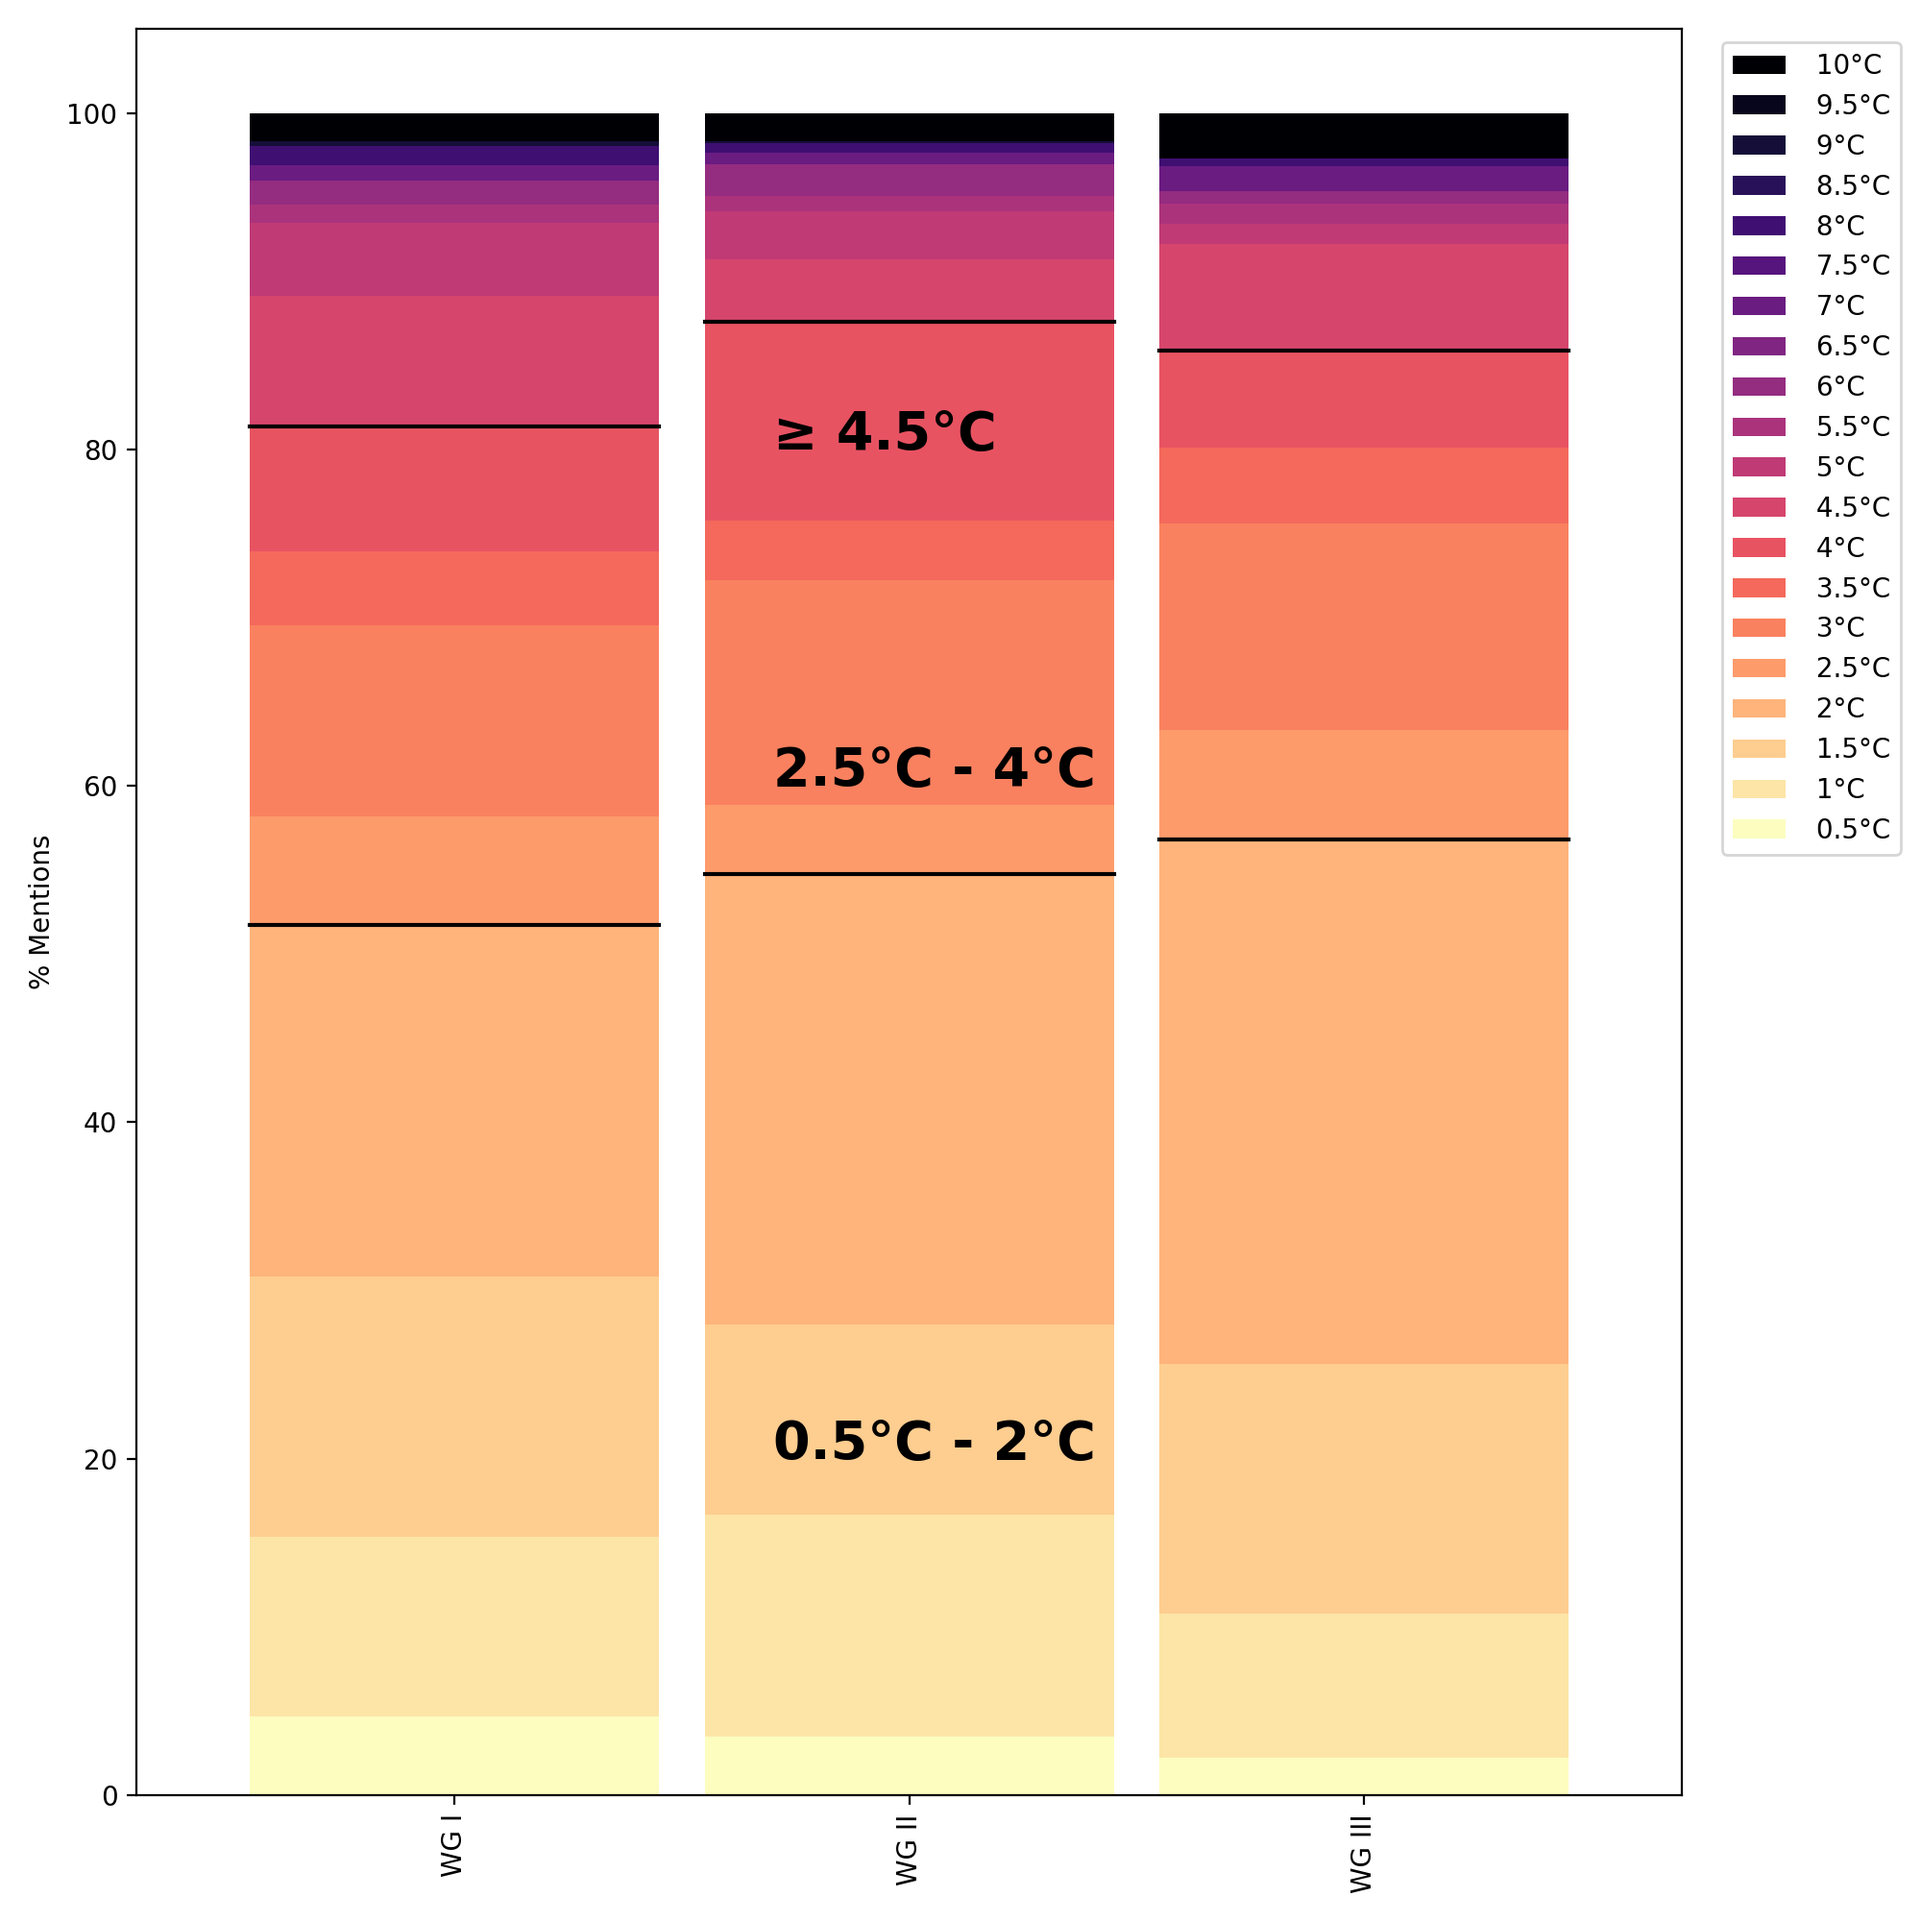
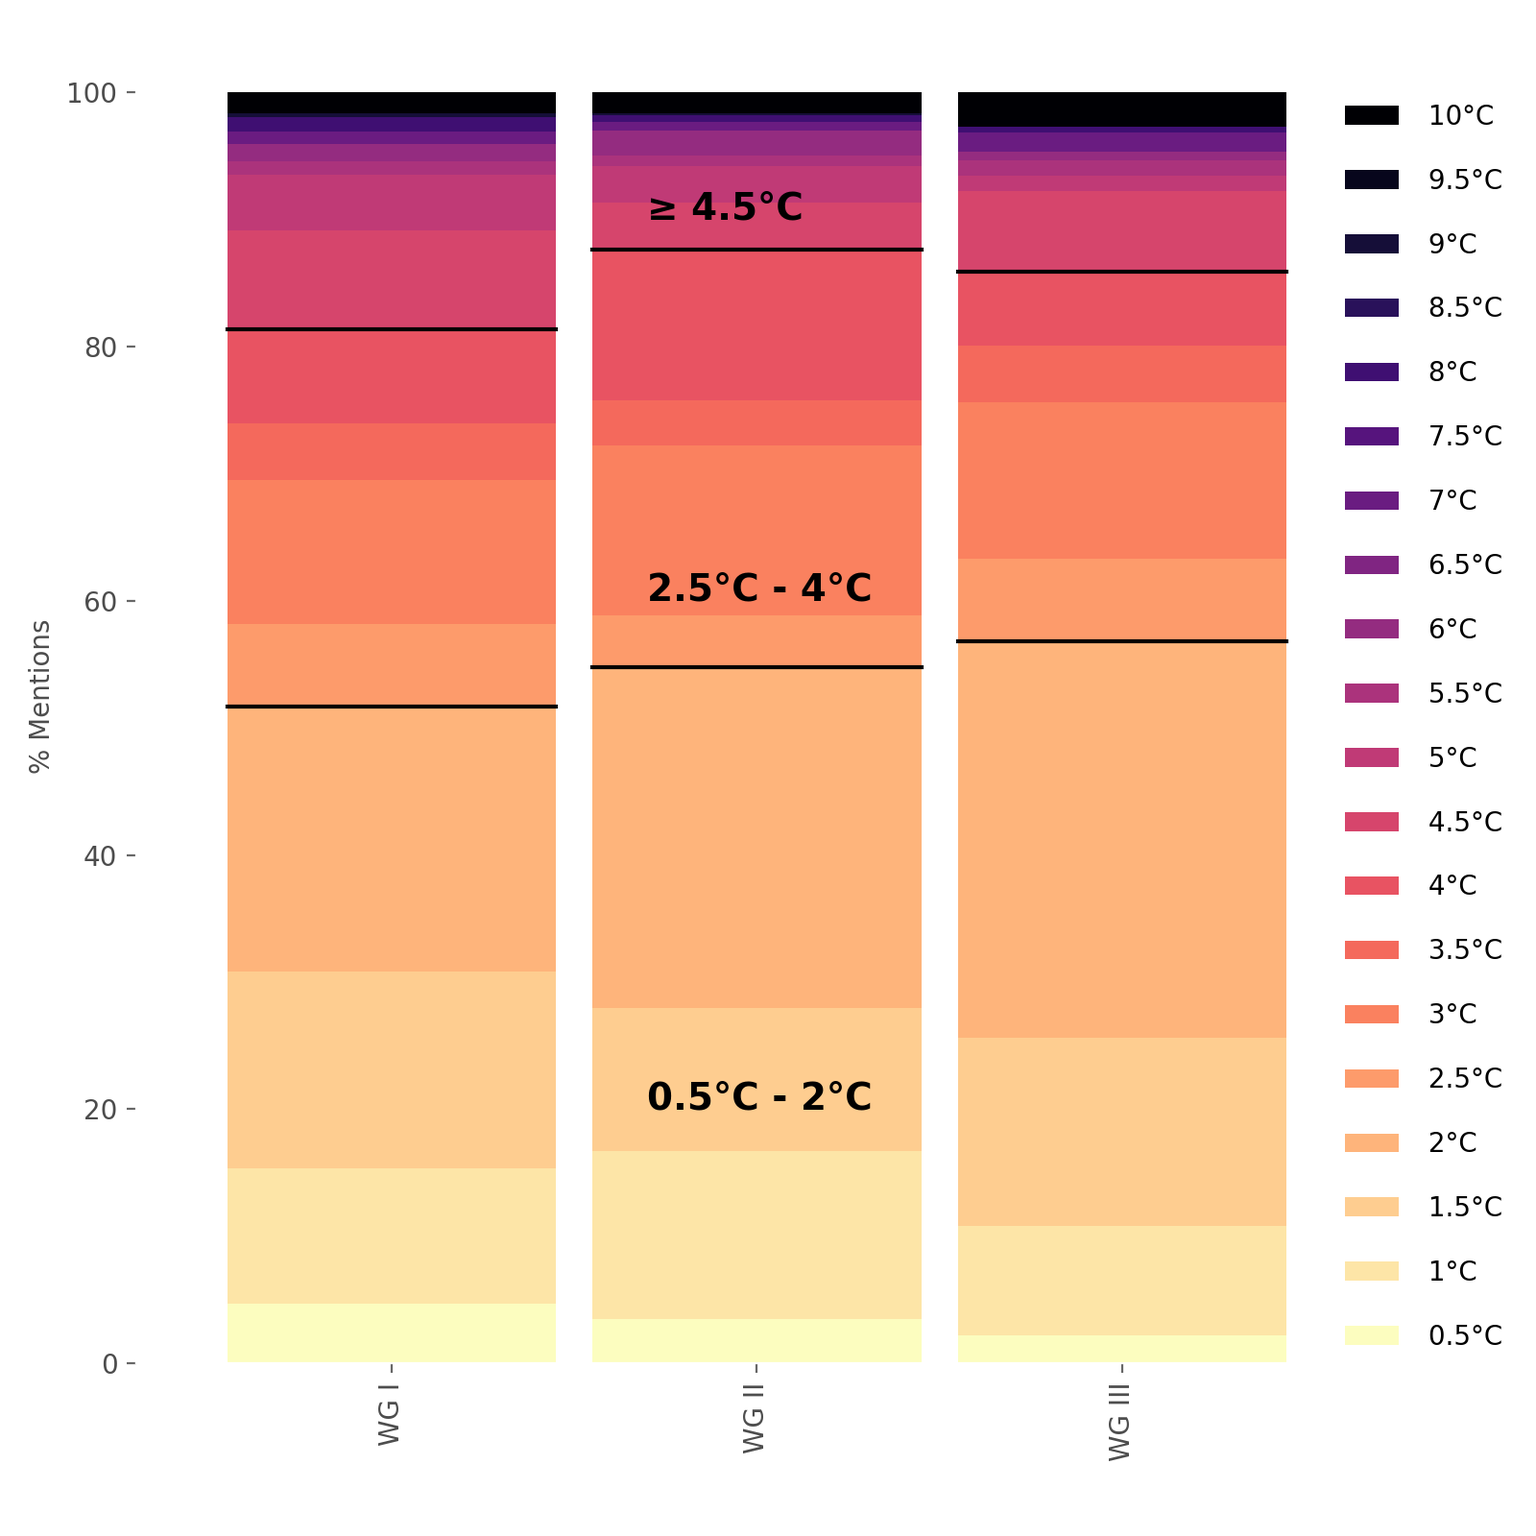
Finished cleaning up the repository for publication

diff --git a/read_prepare_data.py b/read_prepare_data.py
@@ -7,6 +7,8 @@ Created on Fri Sep 17 10:12:26 2021
 import os
 import pandas as pd
 import numpy as np
+import re
+import random
 
 
 def read_ipcc_counts_temp():
@@ -148,8 +150,127 @@ def combine_all_raw_strings():
     with open(os.getcwd() + os.sep + "Raw IPCC Strings" + os.sep + "all_ipcc_strings.csv", 'w', encoding='utf-8') as f:
         # this file is not included in the repository, as it is too large for Github
         f.write(all_reports)
+
+
+def create_temp_dict():
+    """Creates a dictionary for all the single temperatures to count and returns it"""
+    temp_dict = {}
+    for i in np.arange(0.5,10.5, 0.5):
+        # Test if it is a float or not to format it right
+        if i == int(i):
+            # Add an empty space at the beginnign to make sure this is not counting e.g. 1.5°C  as 5°C
+            key = " " + str(int(i)) + "°C"
+        else: 
+            key = " " + str(i )+ "°C"
+        temp_dict[key] = 0
+    return temp_dict
     
 
+def get_all_string(report):
+    with open(os.getcwd() + os.sep + "Raw IPCC Strings" + os.sep + report, 'r', encoding='utf-8') as f:
+        return f.read()
+    
+
+def count_temperatures(report):
+    """counts all temperatures between 0.5°C and 10°C in 0.5°C steps"""
+    temp_dict = create_temp_dict()
+    report_df = pd.read_csv(os.getcwd() + os.sep + "Raw IPCC Strings" + os.sep + report, sep="\t", usecols=[0])
+    report_list = report_df[report_df.columns[0]].tolist()
+    report_str = " ".join([str(item) for item in report_list])
+    # count how often a temperature occures
+    for temp in temp_dict.keys():
+        number_of_occurences = report_str.count(temp)
+        print("Found " + temp +  " " + str(number_of_occurences) + " time(s)")
+        temp_dict[temp] += number_of_occurences
+    # Save the results for the single pdf
+    temp_counts_pdf = pd.DataFrame.from_dict(temp_dict, orient="index")
+    temp_counts_pdf.to_csv("Results" + os.sep + "temperatures" + os.sep + "counts_" + report[:-4] + ".csv", sep=";")
+    
+    
+def count_temp_in_all_reports():
+    """iterates over all reports"""
+    reports = [file for file in os.listdir(os.getcwd() + os.sep + "Raw IPCC Strings") if file[-4:] == ".csv" ]
+    for report in reports:
+        print("Starting with " + report)  
+        count_temperatures(report)    
+
+
+def create_rfc_dict():
+    """Creates a dictionary for all "reasons for concern" to count and returns it"""
+    rfc_dict = {
+        "unique and threatened systems":0,
+        "extreme climate events":0,
+        "distribution of impacts":0,
+        "aggregate impacts":0,
+        "large-scale singular event":0
+        }
+    return rfc_dict
+    
+
+def count_rfc(report):
+    """counts all reasons of concerns mentioned in a given report"""
+    rfc_dict = create_rfc_dict()
+    report_df = pd.read_csv(os.getcwd() + os.sep + "Raw IPCC Strings" + os.sep + report, sep="\t", usecols=[0])
+    report_list = report_df[report_df.columns[0]].tolist()
+    report_str = " ".join([str(item) for item in report_list])
+    # count how often a temperature occures
+    for reason_for_concern in rfc_dict.keys():
+        number_of_occurences = report_str.count(reason_for_concern)
+        print("Found " + reason_for_concern +  " " + str(number_of_occurences) + " time(s)")
+        rfc_dict[reason_for_concern] += number_of_occurences
+    # Save the results for the single pdf
+    rfc_counts_pdf = pd.DataFrame.from_dict(rfc_dict, orient="index")
+    rfc_counts_pdf.to_csv("Results" + os.sep + "reasons_for_concern" + os.sep + "counts_" + report[:-4] + ".csv", sep=";")
+     
+    
+def count_rfc_in_all_reports():
+    """iterates over all reports"""
+    reports = [file for file in os.listdir(os.getcwd() + os.sep + "Raw IPCC Strings") if file[-4:] == ".csv" ]
+    for report in reports:
+        print("Starting with " + report)  
+        count_rfc(report)
+        
+
+def read_ipcc_string():
+    """reads in the string that contains all reports"""
+    with open(os.getcwd() + os.sep + "Raw IPCC Strings" + os.sep + "all_ipcc_strings.csv", 'r', encoding='utf-8') as f:
+        return str(f.readlines())
+    
+    
+def find_all_temp_occurence(ipcc_string):
+    """finds all occurences for all temperatures"""
+    temp_dict = {}
+    for i in [1,1.5,2,3,4,5,6,7,8,9,10]:
+        # Test if it is a float or not to format it right
+        if i == int(i):
+            # Add an empty space at the beginnign to make sure this is not counting e.g. 1.5°C  as 5°C
+            key = " " + str(int(i)) + "°C"
+        else: 
+            key = " " + str(i)+ "°C"
+        temp_dict[key] = [m.start() for m in re.finditer(key, ipcc_string)]
+    return temp_dict
+    
+
+def get_strings_around_temps(temp_dict, ipcc_string, n_temp_sample=10, sample_length=250):
+    """extracts the text around a given index in the string of all ipcc reports"""
+    # number of files created with independent samples
+    amount_files = 6
+    for file in range(amount_files):
+        with open(os.getcwd() + os.sep + "Results" + os.sep + "false_positive_check_files" + os.sep + "false_positive_"+str(file+1)+".csv", 'w', encoding='utf-8') as f:       
+            for temp in temp_dict.keys():
+                random_temp_sample = random.sample(temp_dict[temp],n_temp_sample)
+                for index in random_temp_sample:
+                    f.write(ipcc_string[int(index-(sample_length/2)):int(index+(sample_length/2))]+"\n\n")
+            
 
 if __name__ == "__main__":
+    # Run the data analysis
     combine_all_raw_strings()
+    count_rfc_in_all_reports()
+    count_temp_in_all_reports()
+
+    # Get the random sample
+    ipcc_string = read_ipcc_string()
+    temp_dict = find_all_temp_occurence(ipcc_string)
+    random.seed(1)
+    get_strings_around_temps(temp_dict, ipcc_string)

diff --git a/supplementary_figures.py b/supplementary_figures.py
@@ -8,7 +8,6 @@ import pandas as pd
 import matplotlib.pyplot as plt
 import os
 import read_prepare_data as rp_da
-import count_rfc_ipcc
 import seaborn as sns
 
 
@@ -34,7 +33,7 @@ def plot_all_temp_by_wg(ipcc_counts_temp, meta, cmap):
     ax = wgs_continous_temp.plot(cmap=cmap, kind="bar", width=0.9, stacked=True)
     # Handle the legend
     handles, labels = ax.get_legend_handles_labels()
-    ax.legend(handles[::-1], labels[::-1],loc='upper right', bbox_to_anchor=(1.15, 1))
+    ax.legend(handles[::-1], labels[::-1],loc='upper right', bbox_to_anchor=(1.12, 0.962),labelspacing=1.4, frameon=False)
     # Plot the temp groups
     wgs_group_temp = pd.concat([wgI[temp_groups].mean(), wgII[temp_groups].mean(), wgIII[temp_groups].mean()],axis=1)
     wgs_group_temp.columns = ["WG I", "WG II", "WG III"]
@@ -49,13 +48,14 @@ def plot_all_temp_by_wg(ipcc_counts_temp, meta, cmap):
             ax.plot([i-0.45,i+1-0.55], [WG,WG], color="black")
 
 
-    for temp_group, y_pos in zip(temp_groups, [20,60,80]):
-        ax.text(0.7, y_pos,temp_group, fontsize=20, fontweight="bold")
+    for temp_group, y_pos in zip(temp_groups, [20,60,90]):
+        ax.text(0.7, y_pos,temp_group, fontsize=14, fontweight="bold")
         
     # Make pretty
     ax.set_ylabel("% Mentions")
+    plot_nicer(ax)
     fig = plt.gcf()
-    fig.set_size_inches(10,10)
+    fig.set_size_inches(8,8)
     fig.tight_layout()
     plt.savefig("Figures"+ os.sep + "Supplementary" + os.sep + "WG_all_temps_and_grouped.png", dpi=200)
     plt.close()
@@ -74,7 +74,7 @@ def plot_all_temp_by_report_type(ipcc_counts_temp, meta, cmap):
     # Plot the seperate temps
     ax = counts_meta.groupby("Kind of Report")[temps].mean().plot(cmap=cmap, kind="bar", width=0.9, stacked=True)    
     handles, labels = ax.get_legend_handles_labels()
-    ax.legend(handles[::-1], labels[::-1],loc='upper right', bbox_to_anchor=(1.15, 1))
+    ax.legend(handles[::-1], labels[::-1],loc='upper right', bbox_to_anchor=(1.12, 0.962),labelspacing=1.4, frameon=False)
     # Plot the temp groups
     temp_group_means_by_report = counts_meta.groupby("Kind of Report")[temp_groups].mean()
     # prep df for stacking
@@ -88,13 +88,14 @@ def plot_all_temp_by_report_type(ipcc_counts_temp, meta, cmap):
             # Plot vertical lines
 
 
-    for temp_group, y_pos in zip(temp_groups, [20,60,80]):
-        ax.text(1.6, y_pos,temp_group, fontsize=20, fontweight="bold")
+    for temp_group, y_pos in zip(temp_groups, [20,60,90]):
+        ax.text(1.6, y_pos,temp_group, fontsize=14, fontweight="bold")
         
     # Make pretty
     ax.set_ylabel("% Mentions")
+    plot_nicer(ax)
     fig = plt.gcf()
-    fig.set_size_inches(10,10)
+    fig.set_size_inches(8,8)
     fig.tight_layout()
     plt.savefig("Figures"+ os.sep + "Supplementary" + os.sep + "report_type_all_temps_and_grouped.png", dpi=200)
     plt.close()
@@ -105,20 +106,22 @@ def plot_all_rfc_by_ar(ipcc_counts_rfc, meta, cmap):
     ipcc_counts_rfc = rp_da.scale_counts(ipcc_counts_rfc.copy())
     # prep for plotting
     counts_meta = rp_da.merge_counts_meta(ipcc_counts_rfc, meta)
-    rfcs = list(count_rfc_ipcc.create_rfc_dict().keys())
+    rfcs = list(rp_da.create_rfc_dict().keys())
     # Plot the seperate temps
     ax = counts_meta.groupby("AR")[rfcs].mean().plot(kind="bar", stacked=True, cmap=cmap)    
-
+    handles, labels = ax.get_legend_handles_labels()
+    ax.legend(handles[::-1], labels[::-1], loc=7)
     # Make pretty
     ax.set_ylabel("% Mentions")
+    plot_nicer(ax)
     fig = plt.gcf()
-    fig.set_size_inches(10,10)
+    fig.set_size_inches(8,8)
     fig.tight_layout()
     plt.savefig("Figures"+ os.sep + "Supplementary" + os.sep + "AR_all_rfc_and_grouped.png", dpi=200)
     plt.close()
     
 
-def plot_nicer(ax):
+def plot_nicer(ax, grid=False):
     """Takes an axis objects and makes it look nicer"""
     alpha=0.7
     for spine in ax.spines.values():
@@ -129,7 +132,8 @@ def plot_nicer(ax):
     ax.set_xlabel(ax.get_xlabel(), alpha=alpha)
     ax.set_ylabel(ax.get_ylabel(), alpha=alpha)
     ax.set_title(ax.get_title(), alpha=alpha)
-    ax.grid("lightgrey")
+    if grid:
+        ax.grid("lightgrey")
     ax.tick_params(axis=u'y', which=u'both',color="#676767")
     ax.tick_params(axis=u'x', which=u'both',color="#676767")
     
@@ -142,7 +146,7 @@ def plot_tp_rate(tp_rate):
     ax.plot(means["Temperature [°C]"].astype('str'), means["True Positive Rate [%]"], color="darkgrey")
     ax.set_ylim(0,100)
     # Make figure nicer
-    plot_nicer(ax)
+    plot_nicer(ax, grid=True)
     fig = plt.gcf()
     fig.set_size_inches(8,2.2)
     fig.tight_layout()
